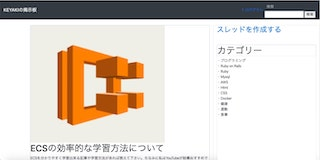
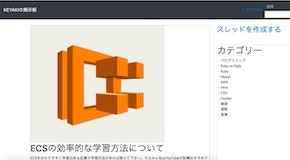
デザイン修正

diff --git a/index.html b/index.html
@@ -118,8 +118,8 @@
               </div>
             	<ul class="social-link list-inline">
                 <li><a href="https://www.facebook.com/profile.php?id=100019550823587" target = "blank"><img src="media/designer/social/facebook.png" alt="facebook" /></a></li>
+                <li><a href="https://github.com/adwyaatd" target="blank"><img src="media/designer/social/github.png" alt="github" /></a></li>
                 <li><a href="https://twitter.com/raimuhosoda" target="blank"><img src="media/designer/social/twitter.png" alt="twitter" /></a></li>
-                <li><a href="#" target="blank"><img src="media/designer/social/insta.png" alt="instagram" /></a></li>
               </ul>
             </div>
           </div>
@@ -128,10 +128,17 @@
               <div class="headline">
               	<h2>About <span class="Green">Me</span></h2>
               </div>
-              <p>サイトをご覧頂きありがとうございます。細田来夢といいます。</p>
+              <p>サイトをご覧頂きありがとうございます。
+                 <br>
+                 細田来夢といいます。</p>
+              <p>年齢：27歳
+                <br>
+                職業：Webエンジニア</p>
+              <p></p>
+              <p></p>
               <ul class="list-inline actions">
-              	<li><button class="btn btn-primary">Hire Me</button></li>
-              	<li><button class="btn btn-secondary">Folio</button></li>
+              	<!-- <li><button class="btn btn-primary">Hire Me</button></li> -->
+              	<li><button class="btn btn-primary"> <a href="#folio" class="page-scroll">作品一覧へ</a></button></li>
               </ul>
             </div>
           </div>
@@ -163,6 +170,11 @@
             <div class="col-md-4">
               <div class="headline">
                 <h2 class="white">services</h2>
+                <p class="white">※恐れ入りますが、現在作業中の案件優先のため,
+                  web上からの依頼は只今お受けしておりません。
+                  <br>
+                  再開し次第、当サイト及びTwitterでその旨告知致します。ご了承ください。
+                </p>
               </div>
               
             </div>
@@ -170,7 +182,7 @@
               <div class="service-item">
               	<span class="service-icon"><i class="icon ion-ios-browsers-outline"></i></span>
               	<div class="item-info">
-              		<h3 class="white">LP制作 50,000円〜</h3>
+              		<h3 class="white">HP制作 50,000円〜</h3>
               		<p class="grey">ご希望のデザインに仕上げます。価格・内容応相談。</p>
               	</div>
               </div>
@@ -215,7 +227,7 @@
             </div>
             <p>Sed ut perspiciatis unde omnis iste natus error sit voluptatem accusantium doloremque laudantium</p>
             <div class="skillset">
-              <div class="skillbar" data-percent="78%">
+              <div class="skillbar" data-percent="100%">
                 <div class="title">HTML 5</div>
                 <div class="count-bar">
                   <div class="count"></div>
@@ -249,8 +261,8 @@
           </div>
         </div>
       </div>
-    </section>
-     -->
+    </section> -->
+    
     <!-- Portfolio Section
     ================================================= -->
     <section id="folio">
@@ -269,33 +281,35 @@
         
         <!--Portfolio Thumbnails-->
         <div id="portfolio">
-          <div class="tile scale-anm app all">
-            <img src="/media/designer/top_image/top_TUMIKI.jpg" alt="" data-toggle="modal" data-target=".project-1" />
-          </div>
-          <div class="tile scale-anm app all">
-            <img src="media/designer/top_image/KEYAKI_top.jpg" alt="" data-toggle="modal" data-target=".project-5" />
-          </div>
-          <div class="tile scale-anm practice all">
-            <img src="/media/designer/top_image/top_folio3.jpg" alt="" data-toggle="modal" data-target=".project-2" />
-          </div>
-          <div class="tile scale-anm practice all">
-            <img src="media/designer/top_image/top_folio2.jpg" alt="" data-toggle="modal" data-target=".project-4" />
-          </div>
-          <div class="tile scale-anm YouTube all">
-            <img src="/media/designer/top_image/top_drone.jpg" alt="" data-toggle="modal" data-target=".project-3" />
-          </div>
-          <!-- <div class="tile scale-anm  flyers all">
-            <img src="http://placehold.it/800x600" alt="" data-toggle="modal" data-target=".project-6" />
-          </div> -->
-          <div class="tile scale-anm YouTube all">
-            <img src="/media/designer/top_image/top_surf-aid.jpg" alt="" data-toggle="modal" data-target=".project-7" />
-          </div>
-          <!-- <div class="tile scale-anm bcards all">
-            <img src="media/designer/top_image/" alt="" data-toggle="modal" data-target=".project-8" />
-          </div> -->
-          <!-- <div class="tile scale-anm bcards all">
-            <img src="http://placehold.it/784x770" alt="" data-toggle="modal" data-target=".project-9" />
-          </div> -->
+          <!-- <div class="flex"> -->
+            <div class="tile scale-anm app all">
+              <img src="/media/designer/top_image/top_TUMIKI.jpg" alt="" data-toggle="modal" data-target=".project-1" />
+            </div>
+            <div class="tile scale-anm app all">
+              <img src="media/designer/top_image/KEYAKI_top.jpg" alt="" data-toggle="modal" data-target=".project-5" />
+            </div>
+            <div class="tile scale-anm practice all">
+              <img src="/media/designer/top_image/top_folio3.jpg" alt="" data-toggle="modal" data-target=".project-2" />
+            </div>
+            <div class="tile scale-anm practice all">
+              <img src="media/designer/top_image/top_folio2.jpg" alt="" data-toggle="modal" data-target=".project-4" />
+            </div>
+            <div class="tile scale-anm YouTube all">
+              <img src="/media/designer/top_image/top_drone.jpg" alt="" data-toggle="modal" data-target=".project-3" />
+            </div>
+            <!-- <div class="tile scale-anm  flyers all">
+              <img src="http://placehold.it/800x600" alt="" data-toggle="modal" data-target=".project-6" />
+            </div> -->
+            <div class="tile scale-anm YouTube all">
+              <img src="/media/designer/top_image/top_surf-aid.jpg" alt="" data-toggle="modal" data-target=".project-7" />
+            </div>
+            <!-- <div class="tile scale-anm bcards all">
+              <img src="media/designer/top_image/" alt="" data-toggle="modal" data-target=".project-8" />
+            </div> -->
+            <!-- <div class="tile scale-anm bcards all">
+              <img src="http://placehold.it/784x770" alt="" data-toggle="modal" data-target=".project-9" />
+            </div> -->
+          <!-- </div> -->
         </div>
         
         <!--Portfolio Modals-->
@@ -406,23 +420,25 @@
     
     <!-- Testimonials Section
     ================================================= -->
-    <!-- <section id="testimonials">
-     -->
+    <style>/*
+    <section id="testimonials">
+    
       <!--Section Parallax-->
-      <!-- <ul class="element-scroll-parallax hidden-sm hidden-xs">
+      <ul class="element-scroll-parallax hidden-sm hidden-xs">
       	<li data-parallax='{"y": 200}'><img src="media/designer/testimonial-1.png" alt="" /></li>
         <li data-parallax='{"y": -400, "rotateY": 300}'><img src="media/designer/testimonial-2.png" alt="" /></li>
         <li data-parallax='{"y": 400, "rotateZ": 300}'><img src="media/designer/testimonial-3.png" alt="" /></li>
         <li data-parallax='{"y": -500}'><img src="media/designer/testimonail-4.png" alt="" /></li>
-      </ul> Parallax End -->
+      </ul> 
+      <!-- Parallax End -->
       
-      <!-- <div class="container wrapper white-bg">
+      <div class="container wrapper white-bg">
         <div class="headline">
           <h2>Feedback</h2>
-        </div> -->
+        </div>
         
         <!--Testimonial Carousel-->
-        <!-- <div id="carousel-testimonials" class="carousel slide" data-ride="carousel">
+         <div id="carousel-testimonials" class="carousel slide" data-ride="carousel">
           <div class="carousel-inner">
             <div class="item active">
               <div class="testimonial-client">
@@ -457,20 +473,21 @@
               </div>
               <blockquote>At vero eos et accusamus et iusto odio dignissimos ducimus qui blanditiis praesentium voluptatum deleniti atque corrupti quos dolores et quas molestias excepturi sint occaecati cupiditate non provident, similique sunt in culpa qui officia deserunt.</blockquote>
             </div>
-          </div> -->
+          </div>
           
           <!--Carousel Indicator-->
-          <!-- <ol class="carousel-indicators carousel-indicators-set">
+          <ol class="carousel-indicators carousel-indicators-set">
             <li data-target="#carousel-testimonials" data-slide-to="0" class="active"></li>
             <li data-target="#carousel-testimonials" data-slide-to="1"></li>
             <li data-target="#carousel-testimonials" data-slide-to="2"></li>
           </ol>
         </div>
       </div>
-    </section> -->
-    
-    <!-- Timline Section
-    ================================================= -->
+    </section>
+    */</style>
+
+    <!-- Timline Section-->
+    <!-- =================================================  -->
     <!-- <section id="timeline">
     	<div class="container wrapper">
         <div class="headline">
@@ -549,6 +566,13 @@
     			<div class="col-md-7">
             <div class="headline">
               <h2 class="white">Contact <span class="Green">Me</span></h2>
+              <p class="white">※恐れ入りますが、現在作業中の案件優先のため,
+                web上からの依頼は只今お受けしておりません。
+                <br>
+                そのため、下記メッセージリンクは現在停止させております。
+                <br>
+                再開し次第、当サイト及びTwitterでその旨告知致します。ご了承ください。
+              </p>
             </div>
             
             <!--Contact Form-->

diff --git a/css/void-designer.css b/css/void-designer.css
@@ -290,9 +290,9 @@ Intro Section
   background: rgba(249,237,50, .3);
   position: absolute;
   width: 335px;
-  height: 60px;
+  height: 6vw;
   left: 50%;
-  bottom: -60px;
+  /* bottom: -60px; */
 }
 
 h1.name{
@@ -355,7 +355,7 @@ ul#scene li:nth-child(6) .my-info{
   left: 0;
   right: 0;
   margin: auto;
-  bottom: 150px;
+  bottom: 200px;
 }
 
 ul#scene li:nth-child(7) img{
@@ -373,7 +373,7 @@ About Section
 ==================================================*/
 
 #about{
-  padding-bottom: 120px;
+  padding-bottom: 70px;
 }
 
 /*My Photo*/
@@ -601,7 +601,7 @@ Projects Section
 
 #folio{
   text-align: center;
-  margin-bottom: 20rem;
+  margin-bottom: 7rem;
 }
 
 /*Portfolio Menu*/
@@ -651,6 +651,14 @@ ul.folio-menu li:last-child::after{
   transform: scale(0);
   -webkit-transition: all 350ms ease;
   transition: all 350ms ease;
+  position: relative;
+  width: 100%;
+}
+
+.tile:before{
+  content: "";
+  display: block;
+  padding-top: 75%;
 }
 
 .scale-anm {
@@ -658,6 +666,11 @@ ul.folio-menu li:last-child::after{
 }
 
 .tile img {
+  position: absolute;
+  top: 0;
+  left: 0;
+  bottom: 0;
+  right: 0;
   max-width: 100%;
   width: 100%;
   height: auto;
@@ -1035,7 +1048,11 @@ ul.social-icons li a:hover{
   #skills img.img-skills{margin: 0 auto 50px;}
     
   /* Footer -----------------------------------------------------------------------------------------------------------------------------------*/
-  .contact-info{top: 0;}
+  .contact-info{
+    top: 0;
+    height: 190px;
+    padding: 30px 15px;
+  }
   
 }
 
@@ -1090,7 +1107,7 @@ ul.social-icons li a:hover{
   .yellow-box{width: 150px;}
   h1.name{font-size: 50px;}
   ul#scene li:nth-child(4) img{width: 250px;}
-  ul#scene li:nth-child(6) .my-info{bottom: 50px;}
+  ul#scene li:nth-child(6) .my-info{bottom: 100px;}
   
   /* About Section -----------------------------------------------------------------------------------------------------------------------------------*/
   .photo-block .photo img.my-photo{width: 220px;}
